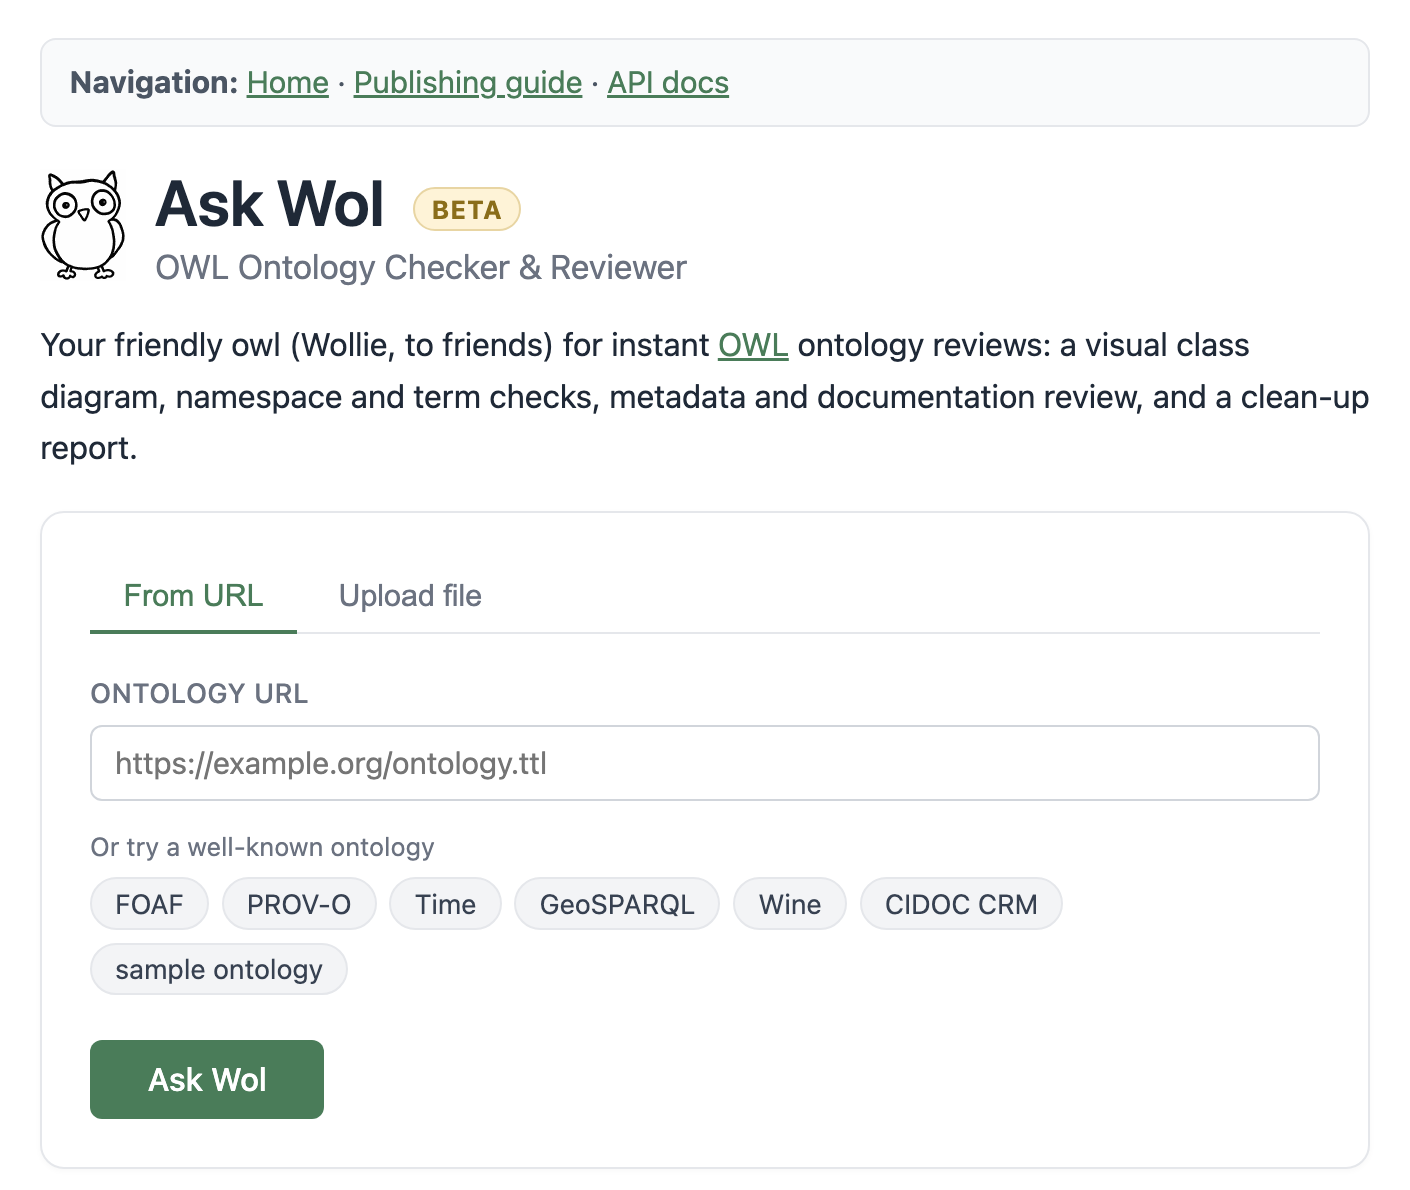
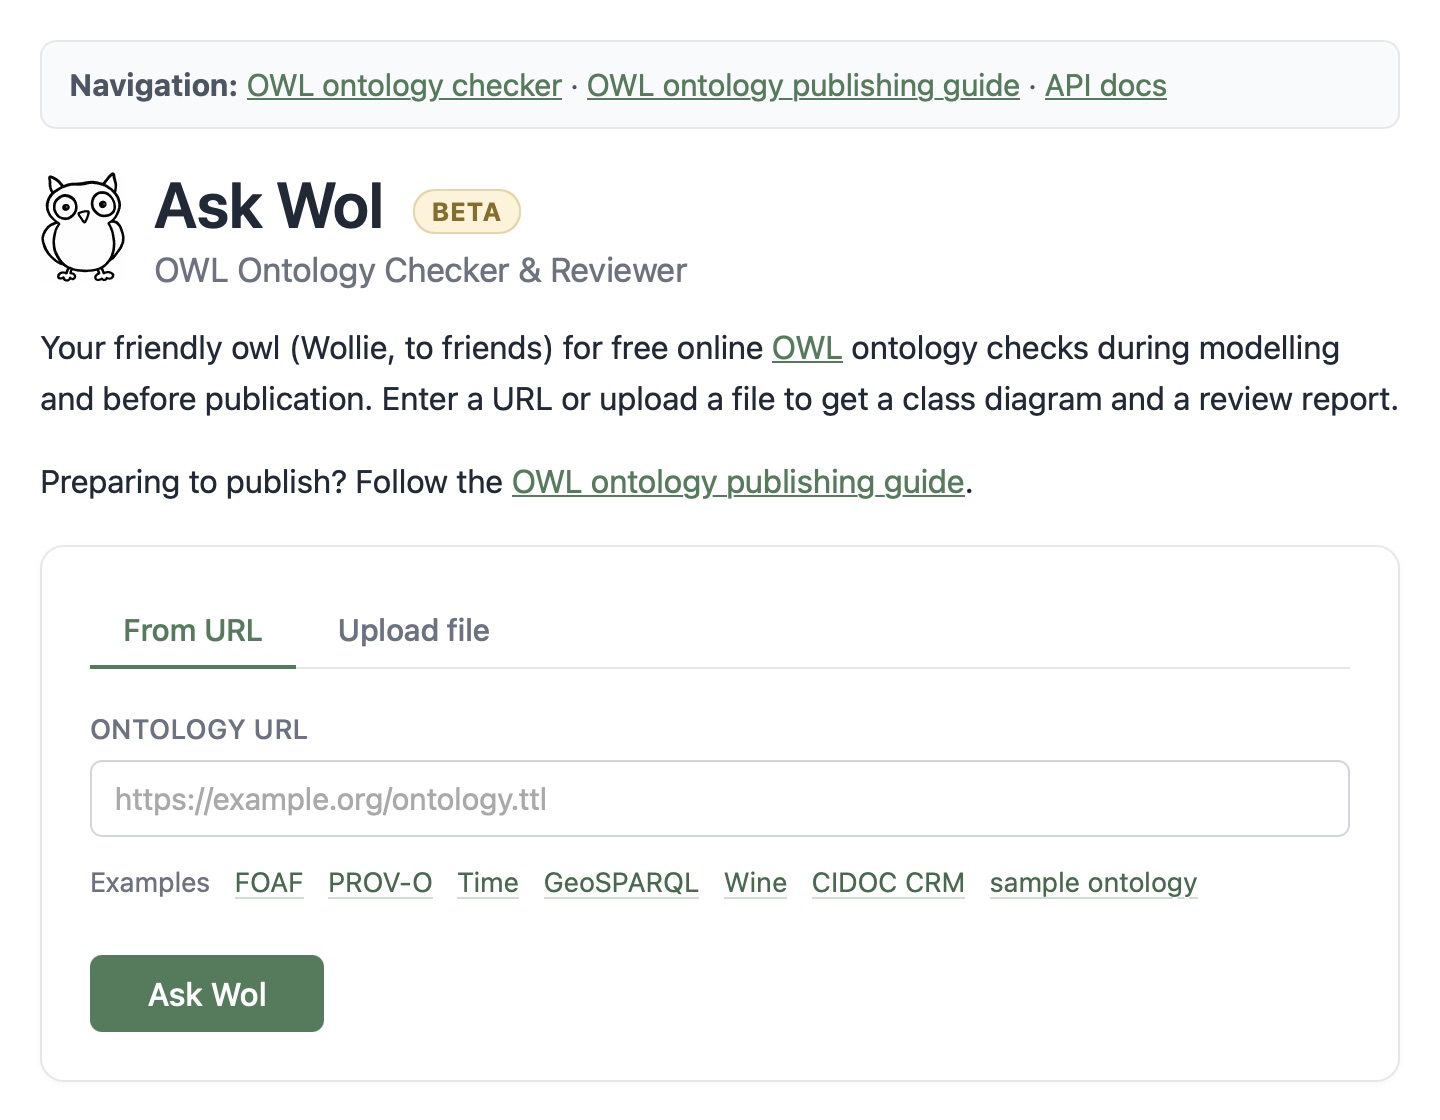
Prepare release 0.3.0

diff --git a/src/askwol/usage.py b/src/askwol/usage.py
@@ -17,6 +17,7 @@ import os
 import secrets
 import sqlite3
 import threading
+from contextlib import closing
 from datetime import datetime, timezone
 from pathlib import Path
 from typing import Any
@@ -43,7 +44,7 @@ def _init() -> None:
         if _initialised:
             return
         _DB_PATH.parent.mkdir(parents=True, exist_ok=True)
-        with _connect() as conn:
+        with closing(_connect()) as conn, conn:
             conn.executescript(
                 """
                 CREATE TABLE IF NOT EXISTS events (
@@ -124,7 +125,7 @@ def record(
         return
     try:
         _init()
-        with _connect() as conn:
+        with closing(_connect()) as conn, conn:
             conn.execute(
                 "INSERT INTO events(ts, kind, source, status, duration_ms, ip_hash) "
                 "VALUES (?, ?, ?, ?, ?, ?)",
@@ -167,7 +168,7 @@ def stats(
     _init()
     url_source_page = max(1, url_source_page)
     upload_source_page = max(1, upload_source_page)
-    with _connect() as conn:
+    with closing(_connect()) as conn, conn:
         cutoff = f"-{int(days)} days"
         totals = conn.execute(
             "SELECT COUNT(*) AS n, COUNT(DISTINCT ip_hash) AS uniq FROM events"
@@ -267,7 +268,7 @@ def events_count(*, source: str | None = None, status: str | None = None) -> int
         return 0
     _init()
     where, params = _event_filter_clause(source, status)
-    with _connect() as conn:
+    with closing(_connect()) as conn, conn:
         row = conn.execute(f"SELECT COUNT(*) AS n FROM events{where}", params).fetchone()
     return int(row["n"]) if row else 0
 
@@ -281,7 +282,7 @@ def all_events(
         return []
     _init()
     where, params = _event_filter_clause(source, status)
-    with _connect() as conn:
+    with closing(_connect()) as conn, conn:
         rows = conn.execute(
             f"SELECT ts, kind, source, status, duration_ms, ip_hash FROM events{where} "
             "ORDER BY ts DESC LIMIT ? OFFSET ?",
@@ -296,7 +297,7 @@ def distinct_sources(limit: int = 500) -> list[dict[str, Any]]:
     if _DISABLED:
         return []
     _init()
-    with _connect() as conn:
+    with closing(_connect()) as conn, conn:
         rows = conn.execute(
             "SELECT source, COUNT(*) AS n FROM events "
             "WHERE source IS NOT NULL GROUP BY source ORDER BY n DESC LIMIT ?",
@@ -311,7 +312,7 @@ def distinct_statuses() -> list[dict[str, Any]]:
     if _DISABLED:
         return []
     _init()
-    with _connect() as conn:
+    with closing(_connect()) as conn, conn:
         rows = conn.execute(
             "SELECT COALESCE(status, '(none)') AS status, COUNT(*) AS n "
             "FROM events GROUP BY status ORDER BY n DESC"
@@ -330,7 +331,7 @@ def job_started(request_id: str, *, kind: str, source: str | None) -> None:
         return
     try:
         _init()
-        with _connect() as conn:
+        with closing(_connect()) as conn, conn:
             conn.execute(
                 "INSERT OR REPLACE INTO validation_jobs(request_id, kind, source, started_at, outcome) "
                 "VALUES (?, ?, ?, ?, 'running')",
@@ -346,7 +347,7 @@ def job_phase(request_id: str, phase: str) -> None:
         return
     try:
         _init()
-        with _connect() as conn:
+        with closing(_connect()) as conn, conn:
             conn.execute(
                 "UPDATE validation_jobs SET phase = ?, phase_at = ? WHERE request_id = ?",
                 (phase, datetime.now(timezone.utc).isoformat(timespec="seconds"), request_id),
@@ -362,7 +363,7 @@ def job_finished(request_id: str, *, outcome: str, status: str | None, duration_
         return
     try:
         _init()
-        with _connect() as conn:
+        with closing(_connect()) as conn, conn:
             conn.execute(
                 "UPDATE validation_jobs SET finished_at = ?, outcome = ?, status = ?, duration_ms = ? "
                 "WHERE request_id = ?",
@@ -382,7 +383,7 @@ def stuck_jobs(older_than_seconds: int = 600) -> list[dict[str, Any]]:
     if _DISABLED:
         return []
     _init()
-    with _connect() as conn:
+    with closing(_connect()) as conn, conn:
         rows = conn.execute(
             "SELECT request_id, kind, source, started_at, phase, phase_at FROM validation_jobs "
             "WHERE outcome = 'running' AND started_at < datetime('now', ?) "
@@ -413,7 +414,7 @@ def progress_key(client_ip: str, source: str) -> str | None:
 
 def progress_put(key: str, owner: str, steps: str, phase: str, now: float) -> None:
     try:
-        with _connect() as conn:
+        with closing(_connect()) as conn, conn:
             conn.execute(
                 "INSERT OR REPLACE INTO progress_jobs(key, owner, steps, phase, updated_at, finished_at) "
                 "VALUES (?, ?, ?, ?, ?, NULL)",
@@ -425,7 +426,7 @@ def progress_put(key: str, owner: str, steps: str, phase: str, now: float) -> No
 
 def progress_set_phase(key: str, owner: str, phase: str, now: float) -> None:
     try:
-        with _connect() as conn:
+        with closing(_connect()) as conn, conn:
             conn.execute(
                 "UPDATE progress_jobs SET phase = ?, updated_at = ? WHERE key = ? AND owner = ?",
                 (phase, now, key, owner),
@@ -436,7 +437,7 @@ def progress_set_phase(key: str, owner: str, phase: str, now: float) -> None:
 
 def progress_finish(key: str, owner: str, now: float) -> None:
     try:
-        with _connect() as conn:
+        with closing(_connect()) as conn, conn:
             conn.execute(
                 "UPDATE progress_jobs SET finished_at = ? WHERE key = ? AND owner = ?",
                 (now, key, owner),
@@ -449,7 +450,7 @@ def progress_drop(key: str, owner: str) -> None:
     """Remove a job, but only if it is still the one `owner` registered (a newer
     request for the same source may have replaced it)."""
     try:
-        with _connect() as conn:
+        with closing(_connect()) as conn, conn:
             conn.execute("DELETE FROM progress_jobs WHERE key = ? AND owner = ?", (key, owner))
     except Exception:  # noqa: BLE001
         pass
@@ -457,7 +458,7 @@ def progress_drop(key: str, owner: str) -> None:
 
 def progress_get(key: str) -> dict[str, Any] | None:
     try:
-        with _connect() as conn:
+        with closing(_connect()) as conn, conn:
             row = conn.execute(
                 "SELECT steps, phase, finished_at FROM progress_jobs WHERE key = ?", (key,)
             ).fetchone()
@@ -470,7 +471,7 @@ def progress_prune(finished_before: float, updated_before: float) -> None:
     """Drop jobs that finished long ago, and ones nobody has touched for ages
     (left behind by a process that died mid-validation)."""
     try:
-        with _connect() as conn:
+        with closing(_connect()) as conn, conn:
             conn.execute(
                 "DELETE FROM progress_jobs WHERE (finished_at IS NOT NULL AND finished_at < ?) "
                 "OR updated_at < ?",

diff --git a/tests/test_usage.py b/tests/test_usage.py
@@ -4,6 +4,11 @@ The autouse fixture in conftest.py already points usage._DB_PATH at a fresh
 temp file per test, so these can call usage.record() freely.
 """
 
+import sqlite3
+from contextlib import closing
+
+import pytest
+
 from askwol import usage
 
 
@@ -77,3 +82,61 @@ def test_distinct_sources_and_statuses():
     assert statuses["200"] == 4
     assert statuses["422"] == 1
     assert statuses[usage.STATUS_NONE] == 1
+
+
+@pytest.fixture
+def tracked_connections(monkeypatch):
+    connections = []
+    connect = usage._connect
+
+    def tracked_connect():
+        conn = connect()
+        connections.append(conn)
+        return conn
+
+    monkeypatch.setattr(usage, "_connect", tracked_connect)
+    yield connections
+    for conn in connections:
+        conn.close()
+
+
+def test_usage_closes_connections_after_events_jobs_and_progress(tracked_connections):
+    usage.record("validate", source="test.ttl", status="200")
+    assert usage.events_count() == 1
+    assert len(usage.all_events()) == 1
+    assert usage.stats()["total_events"] == 1
+    assert usage.distinct_sources() == [{"source": "test.ttl", "n": 1}]
+    assert usage.distinct_statuses() == [{"status": "200", "n": 1}]
+
+    usage.job_started("request", kind="validate", source="test.ttl")
+    usage.job_phase("request", "checks")
+    usage.stuck_jobs()
+    usage.job_finished("request", outcome="ok", status="200", duration_ms=1)
+
+    usage.progress_put("key", "owner", "[]", "parsing", 1.0)
+    usage.progress_set_phase("key", "owner", "checks", 2.0)
+    assert usage.progress_get("key")["phase"] == "checks"
+    usage.progress_finish("key", "owner", 3.0)
+    usage.progress_prune(finished_before=2.0, updated_before=1.0)
+    usage.progress_drop("key", "owner")
+
+    assert tracked_connections
+    for conn in tracked_connections:
+        with pytest.raises(sqlite3.ProgrammingError, match="closed database"):
+            conn.execute("SELECT 1")
+
+
+def test_record_rolls_back_and_closes_connection_after_failed_write(tracked_connections):
+    usage._init()
+    with closing(usage._connect()) as conn, conn:
+        conn.execute(
+            "CREATE TRIGGER reject_event AFTER INSERT ON events "
+            "BEGIN SELECT RAISE(FAIL, 'reject event'); END"
+        )
+
+    usage.record("validate", source="rejected.ttl")
+
+    assert usage.events_count() == 0
+    for conn in tracked_connections:
+        with pytest.raises(sqlite3.ProgrammingError, match="closed database"):
+            conn.execute("SELECT 1")

diff --git a/src/askwol/__init__.py b/src/askwol/__init__.py
@@ -1,5 +1,6 @@
 """askwol  -  OWL ontology checker for namespace resolution and term existence."""
 
+import warnings
 import xml.sax
 
 import defusedxml
@@ -10,7 +11,16 @@ import defusedxml.expatreader
 # hardening it against XML entity-expansion ("billion laughs") denial of
 # service. Defuse the stdlib XML parsers globally, once, before any RDF
 # parsing can happen.
-defusedxml.defuse_stdlib()
+# defusedxml 0.7.1 imports its deprecated cElementTree alias internally.
+# Keep all parser hardening while applying the warning fix from upstream.
+with warnings.catch_warnings():
+    warnings.filterwarnings(
+        "ignore",
+        message=r"^defusedxml\.cElementTree is deprecated, import from defusedxml\.ElementTree instead\.$",
+        category=DeprecationWarning,
+        module=r"^defusedxml$",
+    )
+    defusedxml.defuse_stdlib()
 
 # defuse_stdlib()'s default also forbids *any* <!ENTITY> declaration, even
 # harmless internal ones used purely as string macros for long namespace

diff --git a/tests/test_term_inventory.py b/tests/test_term_inventory.py
@@ -270,7 +270,7 @@ def test_datatypes_recognized():
 def test_datatypes_flags_misspelled_range():
     g = _base_graph()
     g.add((EX["age"], RDF.type, OWL.DatatypeProperty))
-    g.add((EX["age"], RDFS.range, XSD["stirng"]))
+    g.add((EX["age"], RDFS.range, URIRef(str(XSD) + "stirng")))
 
     report = check_datatypes(g)
 
@@ -281,7 +281,7 @@ def test_datatypes_flags_misspelled_range():
 def test_datatypes_flags_misspelled_literal_datatype():
     g = _base_graph()
     g.add((EX["born"], RDF.type, OWL.DatatypeProperty))
-    g.add((EX["alice"], EX["born"], Literal("2000", datatype=XSD["dat"])))
+    g.add((EX["alice"], EX["born"], Literal("2000", datatype=URIRef(str(XSD) + "dat"))))
 
     report = check_datatypes(g)
 

diff --git a/tests/test_progress.py b/tests/test_progress.py
@@ -10,6 +10,7 @@ from __future__ import annotations
 import asyncio
 import sys
 import textwrap
+from contextlib import closing
 
 import httpx
 import pytest
@@ -206,7 +207,7 @@ def test_the_shared_store_holds_neither_the_ip_nor_the_source_name():
     with progress.track(IP, "my-secret-ontology.ttl", steps=progress.UPLOAD_FLOW):
         usage._init()
         raw = usage._DB_PATH.read_bytes()
-        with usage._connect() as conn:
+        with closing(usage._connect()) as conn:
             rows = [tuple(r) for r in conn.execute("SELECT * FROM progress_jobs")]
     assert len(rows) == 1
     assert IP.encode() not in raw

diff --git a/tests/test_client_disconnect.py b/tests/test_client_disconnect.py
@@ -13,6 +13,7 @@ from __future__ import annotations
 
 import asyncio
 import sys
+from contextlib import closing
 
 import httpx
 import pytest
@@ -75,7 +76,7 @@ async def _wait_until(predicate, timeout: float = 5.0) -> None:
 
 def _job_outcomes() -> list[str]:
     usage._init()
-    with usage._connect() as conn:
+    with closing(usage._connect()) as conn:
         return [row["outcome"] for row in conn.execute("SELECT outcome FROM validation_jobs ORDER BY started_at")]
 
 

diff --git a/src/askwol/web.py b/src/askwol/web.py
@@ -165,7 +165,7 @@ app = FastAPI(
         "selected OWL RL/RDF checks for contradictory class memberships of named individuals "
         "and unsatisfiable internal classes. Imports are excluded from reasoning."
     ),
-    version="0.2.0",
+    version="0.3.0",
     root_path=ROOT_PATH,
 )
 
